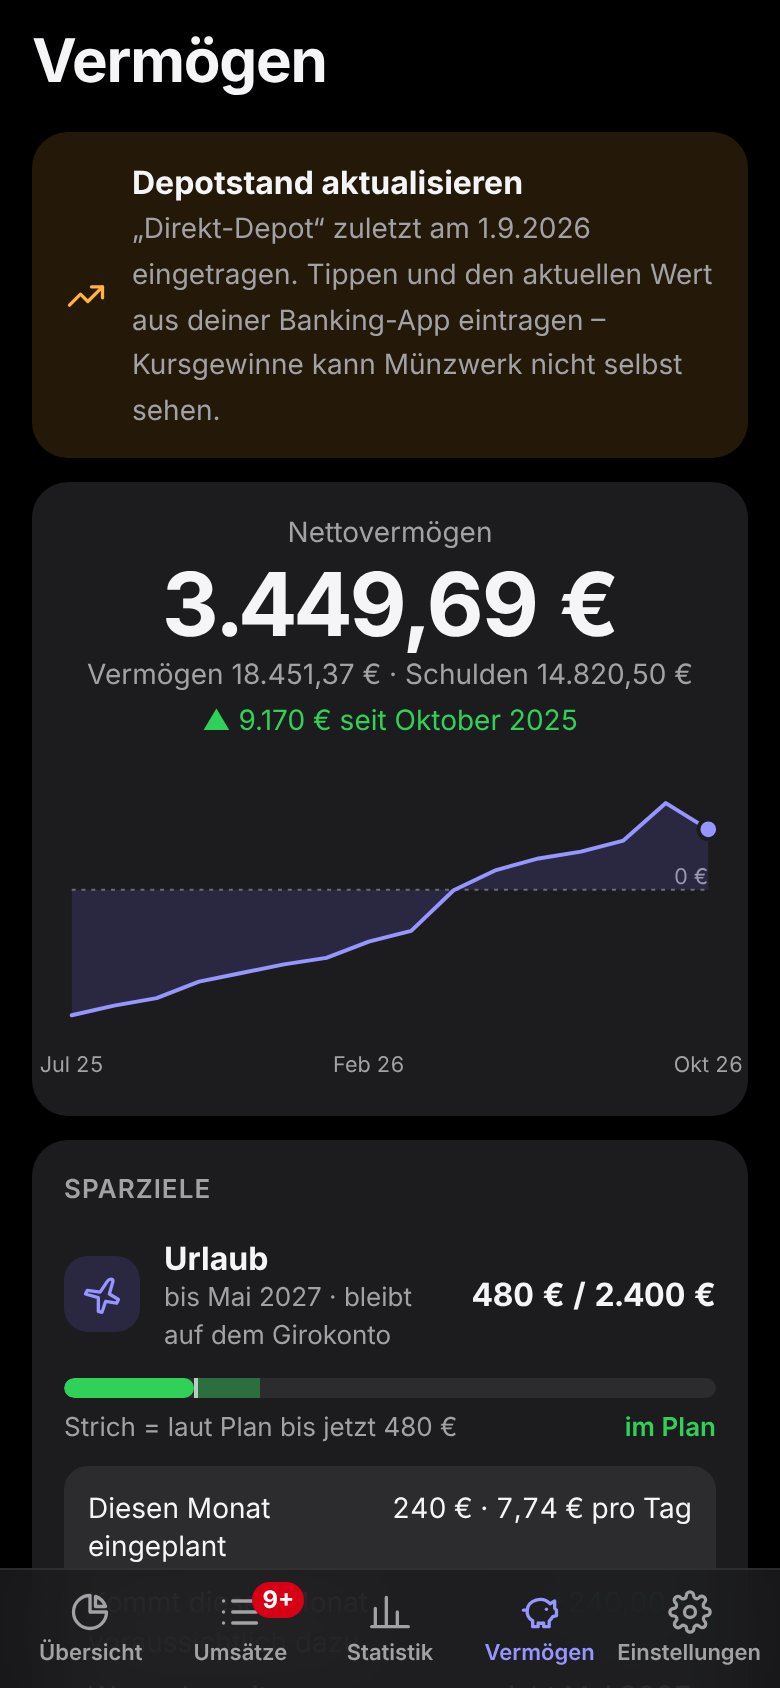
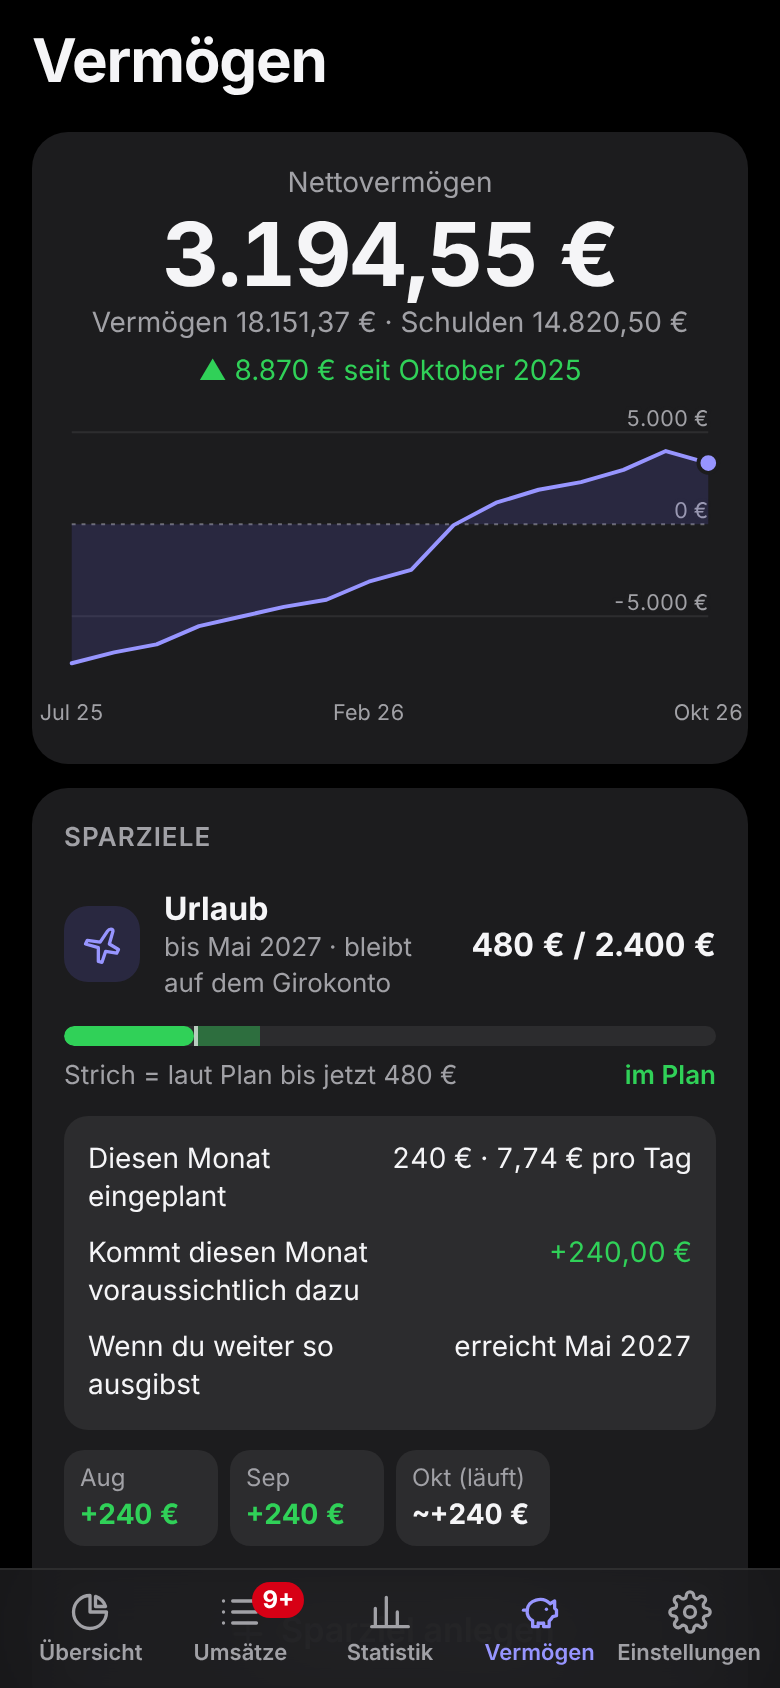
Remove brokerage reminder again (1.15.1)
Claude-Session: https://claude.ai/code/session_01QAm8hbi2NbAH5nWhDhnN4o

diff --git a/web/app-wealth.js b/web/app-wealth.js
@@ -27,7 +27,7 @@ function accountSub(a) {
   }
   if (a.type === "depot" && a.depot) {
     const d = a.depot;
-    return `${d.gain >= 0 ? "+" : ""}${fmt0(d.gain)} (${decimal(d.gainPct * 100, 1)} %) ${t("seit {date}", { date: dateDE(d.since) })}${d.stale ? ` · ${t("Wert aktualisieren")}` : ""}`;
+    return `${d.gain >= 0 ? "+" : ""}${fmt0(d.gain)} (${decimal(d.gainPct * 100, 1)} %) ${t("seit {date}", { date: dateDE(d.since) })}`;
   }
   if (a.type === "savings") {
     const parts = [];
@@ -251,9 +251,7 @@ function viewWealth() {
     return { frac: i / Math.max(1, s.length - 1), html: `<b>${monthLabel(p.month)}</b><br>${t("Vermögen")} ${fmt0(p.assets)}<br>${t("Schulden")} ${fmt0(p.debts)}<br>${t("Netto")} ${fmt0(p.net)}` };
   };
 
-  // Depots liefert die Bank meist nicht (PSD2): sichtbar erinnern, wenn der eingetragene Wert alt ist
-  let html = w.items.filter((a) => a.depot?.stale).map((a) => `<button class="notice warn" data-account="${a.id}">${icon("trend")}
-    <div><b>${t("Depotstand aktualisieren")}</b><span>${t("„{name}“ zuletzt am {date} eingetragen. Tippen und den aktuellen Wert aus deiner Banking-App eintragen – Kursgewinne kann Münzwerk nicht selbst sehen.", { name: esc(a.name), date: dateDE(a.lastValueDate) })}</span></div></button>`).join("");
+  let html = "";
   html += `<section class="card hero">
     <div class="sub">${t("Nettovermögen")}</div>
     <div class="big ${w.net >= 0 ? "" : "neg"}" data-count="${w.net}" data-count-key="net">${fmt(w.net)}</div>

diff --git a/web/i18n.js b/web/i18n.js
@@ -250,8 +250,6 @@
     "inkl. ca. {amount} Zinsen": "incl. approx. {amount} interest",
     "{month}-Rate abgebucht ✓": "{month} instalment paid ✓",
     "{month}-Rate noch nicht abgebucht": "{month} instalment not paid yet",
-    "Depotstand aktualisieren": "Update brokerage value",
-    "„{name}“ zuletzt am {date} eingetragen. Tippen und den aktuellen Wert aus deiner Banking-App eintragen – Kursgewinne kann Münzwerk nicht selbst sehen.": "\"{name}\" was last entered on {date}. Tap and enter the current value from your banking app – Münzwerk can't see price changes itself.",
     "noch {n} Tag": "{n} day left",
     "noch {n} Tage": "{n} days left",
     "Stand": "Balance",
@@ -406,7 +404,6 @@
     "Rate deckt die Zinsen nicht": "Payment doesn't cover the interest",
     "Rate und Zins fehlen noch": "Payment and interest rate still missing",
     "seit {date}": "since {date}",
-    "Wert aktualisieren": "update value",
     "zuletzt {amount} im Monat": "recently {amount} per month",
     "fortgeschrieben seit {date}": "projected since {date}",
     "von der Bank": "from the bank",

diff --git a/web/app.js b/web/app.js
@@ -5,7 +5,7 @@
 
 // Version dieser App-Dateien (gleich wie __version__ in app/__init__.py). Weicht die
 // Version des Servers ab, zeigt das Handy noch eine zwischengespeicherte Fassung.
-const APP_VERSION = "1.15.0";
+const APP_VERSION = "1.15.1";
 const A = window.Analytics;
 const { t, tn, ord, locale } = window.I18N;
 

diff --git a/tools/build_demo.py b/tools/build_demo.py
@@ -39,7 +39,7 @@ def demo_accounts() -> list[dict]:
         {**base, "id": 3, "name": "Direkt-Depot", "type": "depot", "icon": "trend", "match": "direkt-depot",
          "values": [{"id": 3, "date": d(400), "value_cents": 980000, "source": "manual"},
                     {"id": 4, "date": d(190), "value_cents": 1215000, "source": "manual"},
-                    {"id": 5, "date": d(55), "value_cents": 1398000, "source": "manual"}]},
+                    {"id": 5, "date": d(20), "value_cents": 1398000, "source": "manual"}]},
         {**base, "id": 4, "name": "Ratenkredit", "type": "loan", "icon": "receipt", "match": DEMO_IBAN_KREDIT.lower(),
          "loan_rate_percent": 5.49, "loan_payment_cents": 32000, "loan_original_cents": 2000000,
          "values": [{"id": 6, "date": d(0), "value_cents": 1482050, "source": "manual"}]},

diff --git a/app/__init__.py b/app/__init__.py
@@ -2,4 +2,4 @@
 
 # Bei jeder Änderung, die auf den Pi geht, erhöhen (1.0.0 -> 1.0.1 für Korrekturen,
 # 1.1.0 für Neues). Dieselbe Nummer steht als APP_VERSION in web/app.js (Test prüft das).
-__version__ = "1.15.0"
+__version__ = "1.15.1"

diff --git a/README.de.md b/README.de.md
@@ -61,8 +61,7 @@ Aufnahmen aus der Vorschau mit erfundenen Beispieldaten.
 - **Vermögen** – Girokonten, Sparkonten, Depots und Kredite mit Nettovermögen und Verlauf.
   Was automatisch kommt, hängt von der Bank ab: Viele (z. B. die ING) geben per PSD2 nur das
   Girokonto frei. Extra-Konto und Depot trägst du ab und zu ein; dazwischen rechnet Münzwerk
-  deine Überweisungen (und auf Wunsch die Zinsen) dazu und erinnert, wenn der Depotstand alt
-  wird. Kredite laufen mit Tilgungsplan von allein weiter (Zinsen, schuldenfrei ab, Rate
+  deine Überweisungen (und auf Wunsch die Zinsen) dazu. Kredite laufen mit Tilgungsplan von allein weiter (Zinsen, schuldenfrei ab, Rate
   diesen Monat abgebucht?).
 - **Ausgaben-Heatmap** – ein Kalender in der Statistik zeigt, an welchen Tagen das Geld rausgeht;
   Antippen zeigt die Buchungen des Tages, dazu eine Jahresansicht mit dem Schnitt je Wochentag.

diff --git a/README.md b/README.md
@@ -59,8 +59,7 @@ Taken from the demo with made-up data.
 - **Wealth** – current accounts, savings, brokerage accounts and loans with net
   worth over time. What comes in automatically depends on your bank: many (e.g. ING) only
   share the current account via PSD2. Savings and brokerage accounts you enter now and then;
-  in between Münzwerk adds your transfers (and, if you like, savings interest) and reminds you
-  when a brokerage value is getting old. Loans run on their own with a repayment plan
+  in between Münzwerk adds your transfers (and, if you like, savings interest). Loans run on their own with a repayment plan
   (interest, debt-free date, whether this month's instalment went out).
 - **Spending heatmap** – a calendar under *Statistics* shows on which days the money goes;
   tap a day for its transactions, plus a year view with the average per weekday.
